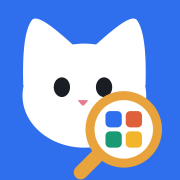
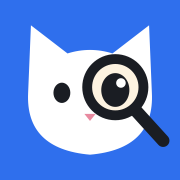
圖示改成「放大鏡放大一隻眼睛」版本，品牌規範一起更新
小尺寸最好認；標誌不再放 S/V/O/C 色塊，四色改由網站內容建立聯想。

diff --git a/docs/品牌規範.md b/docs/品牌規範.md
@@ -20,13 +20,17 @@
 
 **為什麼是貓、為什麼是偵探：** 一般英文學習網站用書本、ABC、學士帽，看起來都像補習班。偵探貓有記憶點，而且「拿放大鏡找線索」剛好就是這個工具在做的事：在一長串英文裡找出 S、V、O、C。
 
+**標誌只負責「認得出這隻貓」，S/V/O/C 交給網站內容。** 標誌試過在放大鏡裡放四色色塊，但 16 px 分頁圖示上四色會糊成一團，反而讓貓變難認，所以最後選了「放大鏡蓋住一隻眼睛、把眼睛放大」的版本：小尺寸最好認，也最有個性。句子分析的聯想由網站上的四色標記、五大句型頁、社群圖來建立。
+
 **個性：** 外表冷靜，一開口很白爛。愛裝偵探腔、愛吐槽自己、偶爾很中二，但不賣萌、不說教，也不嘲笑使用者。它是陪你一起找線索的損友，不是站在講台上的老師。外表簡約、講話白爛，這個反差就是記憶點，所以圖要繼續簡約，好笑的部分交給文字。
 
 **畫法（已定案，不要改）：**
 
-- 藍色圓角方塊當底，白色貓頭，圓頭、耳尖微圓
-- 只有兩隻黑眼睛和一個粉紅小鼻子，**沒有嘴巴、腮紅、睫毛、耳內粉紅**（試過可愛版，太甜，不採用）
-- 右下角拿一支橘色放大鏡，鏡片裡四個色塊排成上二下二：左上 S 藍、右上 V 橘紅、左下 O 綠、右下 C 黃
+- 藍色圓角方塊當底，白色貓頭，尖耳朵
+- 左眼是一顆小黑眼；右眼被一支黑框放大鏡蓋住，鏡片是奶油色，裡面是一顆被放大的大眼睛（黑色瞳孔加一個白色反光點）
+- 一個粉紅小鼻子，**沒有嘴巴、腮紅、睫毛、耳內粉紅**（試過可愛版，太甜，不採用）
+- 放大鏡的握柄往右下角伸出貓頭外
+- 笑點就在「一大一小的眼睛」：正經地盯著你看，又有點白爛
 
 **檔案：**
 
@@ -38,11 +42,12 @@
 
 **使用規則：**
 
-- 最小 16 px。32 px 以下鏡片裡的四色會糊成一團，這是可以接受的，不要為了小尺寸另外改圖
+- 最小 16 px，這個尺寸也認得出白貓和放大鏡，不要為了小尺寸另外改圖
 - 標誌周圍至少留標誌寬度的四分之一當空白
-- 不要拉長壓扁、不要換底色、不要改四個色塊的順序、不要加外框或陰影
-- 不要把貓拿掉只留放大鏡，也不要把放大鏡拿掉只留貓：兩個合起來才是「找骨架」
-- 之後如果要做貓的其他表情或動作（例如找到答案時、出錯時），沿用同一套簡約畫法：只靠眼睛形狀和放大鏡位置表達，不加嘴巴和腮紅
+- 不要拉長壓扁、不要換底色、不要加外框或陰影
+- 不要在標誌裡加 S/V/O/C 色塊或字母；需要同時表達句子分析時（例如簡報封面、社群圖），把四色放在標誌旁邊，不要塞進標誌裡
+- 不要把貓拿掉只留放大鏡，也不要把放大鏡拿掉只留貓：被放大的那隻眼睛就是這隻貓的招牌
+- 之後如果要做貓的其他表情或動作（例如找到答案時、出錯時），沿用同一套簡約畫法：只靠眼睛形狀和放大鏡位置表達（例如鏡片裡的眼睛瞇起來、瞪大、變成問號），不加嘴巴和腮紅
 
 ## 三、顏色
 
@@ -51,18 +56,18 @@
 | 名稱 | 色碼 | 用在哪裡 |
 |---|---|---|
 | 主藍 | `#2f6fed` | 標誌底色、主要按鈕、連結 |
-| 放大鏡橘 | `#e8a33d` | 只用在標誌的放大鏡 |
-| 鼻子粉紅 | `#e8798f` | 只用在標誌的鼻子 |
-| 墨黑 | `#1a1d23` | 文字、貓眼 |
+| 鏡片奶油 | `#fdf3e1` | 只用在標誌的放大鏡鏡片 |
+| 鼻子粉紅 | `#e88aa0` | 只用在標誌的鼻子 |
+| 墨黑 | `#1a1d23` | 文字、貓眼、放大鏡框和握柄 |
 | 背景灰白 | `#f7f8fa` | 淺色模式背景（深色模式 `#111317`） |
 
 ### 句子成分四色（品牌最重要的顏色）
 
-S、V、O、C 四個顏色是這個品牌的核心辨識，網頁上標句子、五大句型頁、小遊戲、簡報、社群圖都要一致：**S 藍、V 橘紅、O 綠、C 黃（偏琥珀）**，順序永遠是 S → V → O → C。
+S、V、O、C 四個顏色是這個品牌在內容上的核心辨識（標誌本身不用這四色），網頁上標句子、五大句型頁、小遊戲、簡報、社群圖都要一致：**S 藍、V 橘紅、O 綠、C 黃（偏琥珀）**，順序永遠是 S → V → O → C。
 
 同一個顏色有兩種濃度，用途不同：
 
-| 成分 | 標誌和插圖用（鮮豔，小尺寸也看得到） | 網頁標記用（底色／字色／底線，見 `style.css`） |
+| 成分 | 插圖、簡報、社群圖用（鮮豔，小尺寸也看得到） | 網頁標記用（底色／字色／底線，見 `style.css`） |
 |---|---|---|
 | S 主詞 | `#2f6fed` | `#e6f1fb`／`#0c447c`／`#185fa5` |
 | V 動詞 | `#e0603a` | `#faece7`／`#712b13`／`#993c1d` |
@@ -132,7 +137,8 @@ S、V、O、C 四個顏色是這個品牌的核心辨識，網頁上標句子、
 以下是我推測、還沒跟你確認過的，確認後把這一節刪掉：
 
 1. 偵探貓要不要取名字？目前沒有名字。
-2. 第二節「之後做貓的其他表情」那條規則，是我預先定的方向，還沒有實際畫過。
+2. 第二節「之後做貓的其他表情」那條規則（靠鏡片裡的眼睛變化表達），是我預先定的方向，還沒有實際畫過。
 3. 第五節「不可以」欄列的補習班用語（必考、秒懂、保證、速成），是依「不要像補習班」推出來的，網站上目前沒有用到。
 4. 貓自稱「本貓」，以及「破案」「兇手」這類偵探梗，是我依「白爛的貓」推出來的。
 5. 網站現有文案（按鈕、提示、錯誤訊息）要不要改成白爛語氣、改哪些，還沒決定；改之前要先給你看。
+6. 第二節「需要表達句子分析時，四色放在標誌旁邊」是我推出來的用法，還沒有實際做過。
